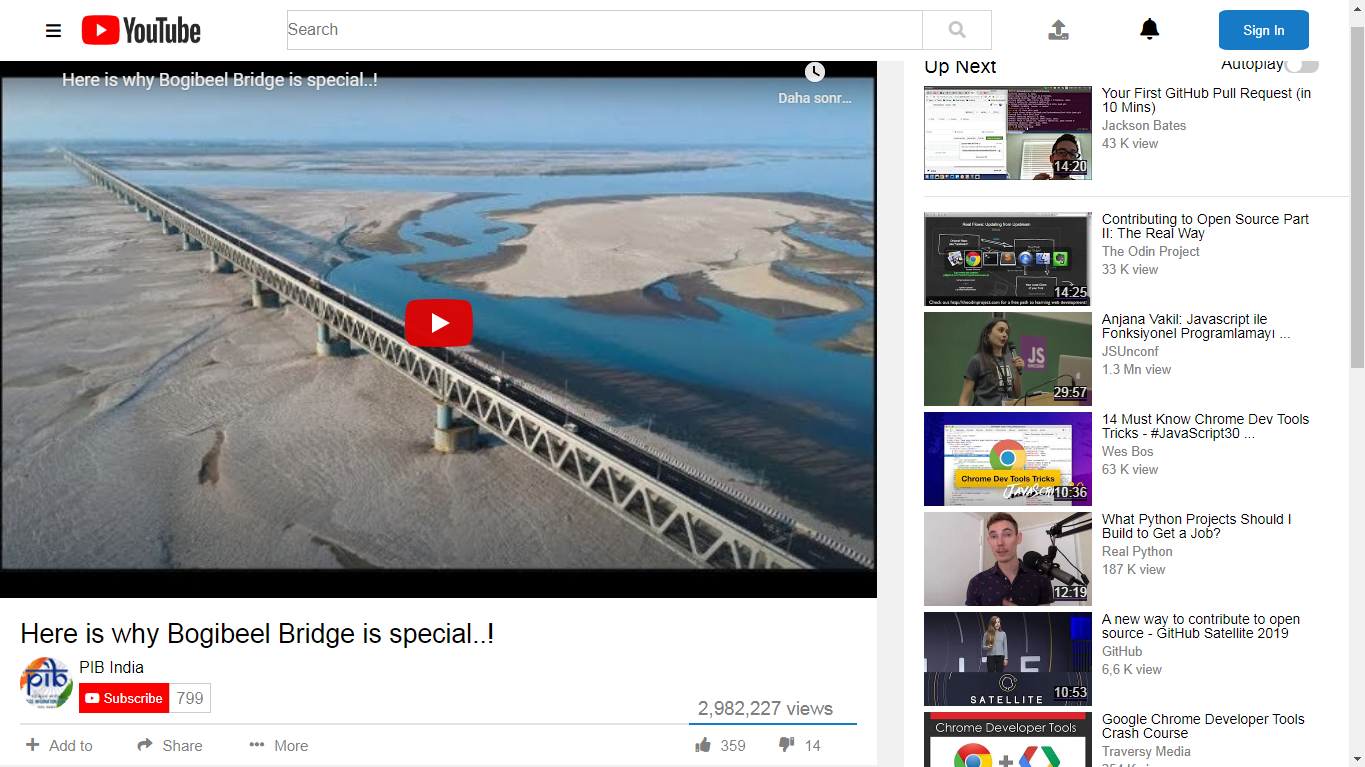
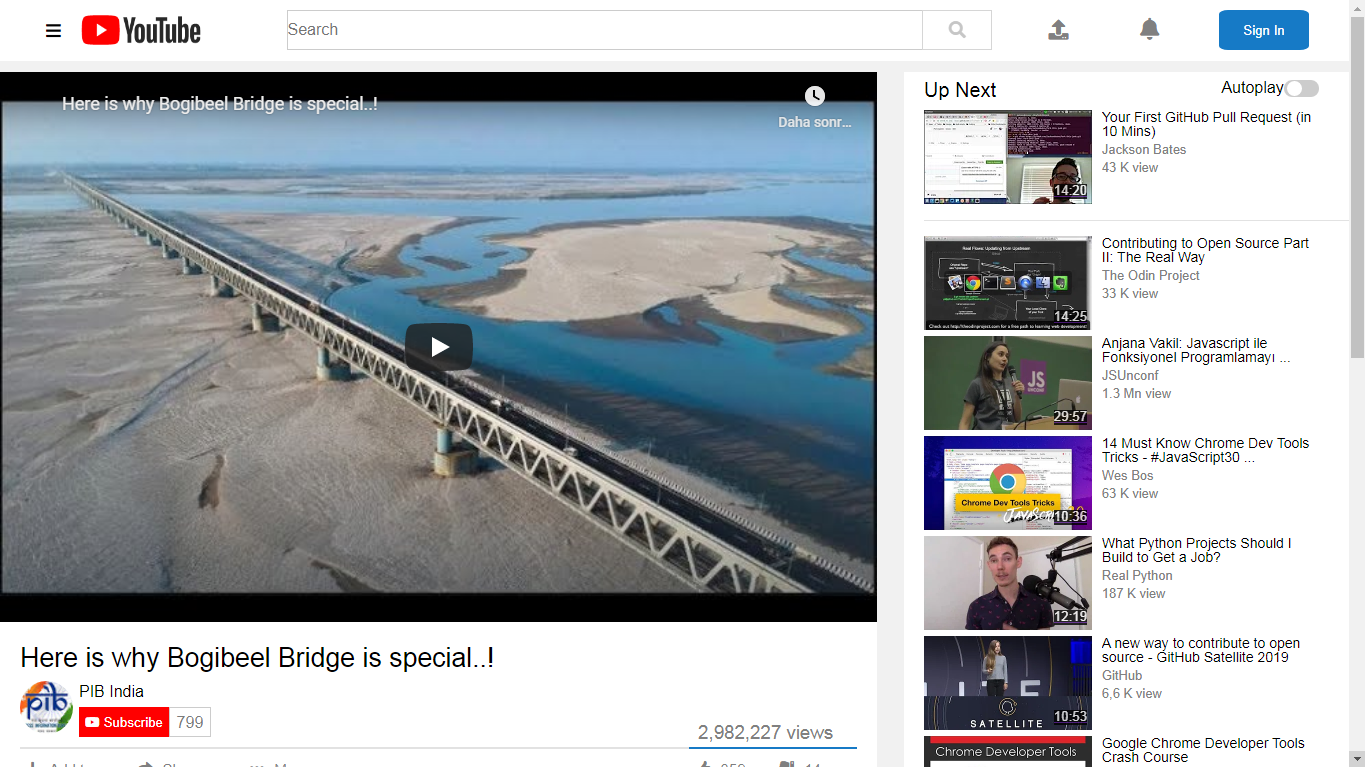
Update Color of bell is changed

diff --git a/CSS/styles.css b/CSS/styles.css
@@ -101,7 +101,7 @@ button {
 .bell {
   width: 100px;
   background-color: transparent;
-  color: black;
+  color: #808080;
   font-size: 140%;
   padding-right: 50px;
   float: left;
